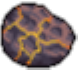
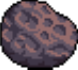
Gameplay refactor
Major gameplay refactor:

- Changed obstacle behavior: now spawn from top and fall down instead of moving from right
- Adjusted difficulty: reduced spawn time (1000→750ms), increased timeout (20→60s), reduced obstacle damage
- Implemented Score screen for victory and loss conditions
- Added proper win/lose detection in Level
- Updated UI: larger fonts (Roboto), new text sizing, added game state messaging
- Removed debug print statements and Python 2 encoding declarations
- Added separate victory/loss music tracks

diff --git a/code/Score.py b/code/Score.py
@@ -1,0 +1,65 @@
+import sys
+import pygame
+from pygame.font import Font
+from pygame.rect import Rect
+from pygame.surface import Surface
+
+from Const import C_YELLOW, C_WHITE, C_RED, SCORE_POS
+
+
+class Score:
+
+    def __init__(self, window: Surface):
+        self.window = window
+        self.surf = pygame.image.load("assets/ScoreBg.png").convert_alpha()
+        self.rect = self.surf.get_rect(left=0, top=0)
+
+    def show(self, victory: bool):
+
+        if victory:
+            title = "YOU WIN!"
+            color = C_YELLOW
+            music = "Score_Victory.mp3"
+        else:
+            title = "GAME OVER"
+            color = C_RED
+            music = "Score_Loss.mp3"
+
+        pygame.mixer_music.load(f"assets/{music}")
+        pygame.mixer_music.play(-1)
+
+        while True:
+            self.window.blit(self.surf, self.rect)
+
+            self.score_text(
+                48,
+                title,
+                color,
+                SCORE_POS["Title"]
+            )
+
+            self.score_text(
+                20,
+                "Press ENTER to return",
+                C_WHITE,
+                SCORE_POS["Label2"]
+            )
+
+            for event in pygame.event.get():
+
+                if event.type == pygame.QUIT:
+                    pygame.quit()
+                    sys.exit()
+
+                if event.type == pygame.KEYDOWN:
+                    if event.key == pygame.K_RETURN:
+                        return
+
+            pygame.display.flip()
+
+    def score_text(self, text_size: int, text: str, text_color: tuple, text_center_pos: tuple):
+        text_font: Font = pygame.font.SysFont(name="Roboto", size=text_size)
+        text_surf: Surface = text_font.render(text, True, text_color).convert_alpha()
+        text_rect: Rect = text_surf.get_rect(center=text_center_pos)
+
+        self.window.blit(text_surf, text_rect)

diff --git a/code/Level.py b/code/Level.py
@@ -1,5 +1,3 @@
-#!/usr/bin/python
-# -*- coding: utf-8 -*-
 import sys
 import random
 
@@ -9,15 +7,14 @@ from pygame.rect import Rect
 from pygame.surface import Surface
 from pygame.font import Font
 
-from Const import EVENT_OBSTACLE
+from Const import WIN_WIDTH, C_RED
 from code.EntityMediator import EntityMediator
-# from code.EntityMediator import EntityMediator
-from code.Obstacle import Obstacle
 from code.Entity import Entity
 from code.EntityFactory import EntityFactory
 from code.Player import Player
-from Const import C_WHITE, WIN_HEIGHT, MENU_OPTION, EVENT_OBSTACLE, SPAWN_TIME, C_GREEN, C_CIAN, EVENT_TIMEOUT, \
+from Const import C_WHITE,  EVENT_OBSTACLE, SPAWN_TIME, C_GREEN, EVENT_TIMEOUT, \
     TIMEOUT_STEP, TIMEOUT_LEVEL
+from code.Score import Score
 
 
 class Level:
@@ -46,7 +43,7 @@ class Level:
                 ent.move()
 
                 if ent.name == 'Player1':
-                    self.level_text(14, f'Player1 - Health: {ent.health} | Score: teste', C_GREEN, (10, 25))
+                    self.level_text(25, f'Player Health: {ent.health}', C_GREEN, (10, 25))
 
             for event in pygame.event.get():
                 if event.type == pygame.QUIT:
@@ -57,17 +54,40 @@ class Level:
                     self.entity_list.append(EntityFactory.get_entity(choice))
                 if event.type == EVENT_TIMEOUT:
                     self.timeout -= TIMEOUT_STEP
+                if self.timeout == 0:
+                    return True
 
+            self.level_text(20, f'Timeout: {self.timeout / 1000:.1f}s', C_WHITE, (10, 5))
+            # self.level_text(14, f'fps: {clock.get_fps():.0f}', C_WHITE, (10, WIN_HEIGHT - 35))
+            # self.level_text(14, f'entidades: {len(self.entity_list)}', C_WHITE, (10, WIN_HEIGHT - 20))
+            self.level_text_info(50, 'SURVIVE!', C_RED, ((WIN_WIDTH / 2), 50))
 
-            self.level_text(14, f'{self.name} - Timeout: {self.timeout / 1000:.1f}s', C_WHITE, (10, 5))
-            self.level_text(14, f'fps: {clock.get_fps():.0f}', C_WHITE, (10, WIN_HEIGHT - 35))
-            self.level_text(14, f'entidades: {len(self.entity_list)}', C_WHITE, (10, WIN_HEIGHT - 20))
             pygame.display.flip()
             EntityMediator.verify_collision(entity_list=self.entity_list)
             EntityMediator.verify_health(entity_list=self.entity_list)
 
+            player = next(
+                (ent for ent in self.entity_list if isinstance(ent, Player)),
+                None
+            )
+
+            # Derrota
+            if player is None or player.health <= 0:
+                return False
+
+            # Vitória
+            if self.timeout <= 0:
+                Score(self.window).show()
+                return True
+
     def level_text(self, text_size: int, text: str, text_color: tuple, text_pos: tuple):
-        text_font: Font = pygame.font.SysFont(name="Lucida Sans Typewriter", size=text_size)
+        text_font: Font = pygame.font.SysFont(name="Roboto", size=text_size)
         text_surf: Surface = text_font.render(text, True, text_color).convert_alpha()
         text_rect: Rect = text_surf.get_rect(left=text_pos[0], top=text_pos[1])
+        self.window.blit(source=text_surf, dest=text_rect)
+
+    def level_text_info(self, text_size: int, text: str, text_color: tuple, text_center_pos=tuple):
+        text_font: Font = pygame.font.SysFont(name="Roboto", size=text_size)
+        text_surf: Surface = text_font.render(text, True, text_color).convert_alpha()
+        text_rect: Rect = text_surf.get_rect(center=text_center_pos)
         self.window.blit(source=text_surf, dest=text_rect)

diff --git a/Const.py b/Const.py
@@ -6,6 +6,7 @@ C_WHITE = (255, 255, 255)
 C_YELLOW = (242, 197, 92)
 C_GREEN = (0, 128, 0)
 C_CIAN = (0, 128, 128)
+C_RED = (255, 0, 0)
 
 #  E
 
@@ -19,8 +20,8 @@ ENTITY_DAMAGE = {
     'Level1Bg5': 0,
     'Level1Bg6': 0,
     'Player1': 100,
-    'Obstacle1': 20,
-    'Obstacle2': 15,
+    'Obstacle1': 5,
+    'Obstacle2': 10,
 }
 
 EVENT_OBSTACLE = pygame.USEREVENT + 1
@@ -47,8 +48,8 @@ ENTITY_SPEED = {
     'Level1Bg4': 5,
     'Level1Bg5': 6,
     'Player1': 3,
-    'Obstacle1': 5,
-    'Obstacle2': 6,
+    'Obstacle1': 6,
+    'Obstacle2': 7,
 
 }
 
@@ -59,35 +60,34 @@ MENU_OPTION = ('NEW SURVIVAL GAME',
                )
 
 # P
-PLAYER_KEY_UP = {'Player1': pygame.K_UP,
-                 'Player2': pygame.K_w}
-PLAYER_KEY_DOWN = {'Player1': pygame.K_DOWN,
-                   'Player2': pygame.K_s}
-PLAYER_KEY_LEFT = {'Player1': pygame.K_LEFT,
-                   'Player2': pygame.K_a}
-PLAYER_KEY_RIGHT = {'Player1': pygame.K_RIGHT,
-                    'Player2': pygame.K_d}
-PLAYER_KEY_SHOOT = {'Player1': pygame.K_RCTRL,
-                    'Player2': pygame.K_LCTRL}
+PLAYER_KEY_UP = {'Player1': pygame.K_UP}
+
+PLAYER_KEY_DOWN = {'Player1': pygame.K_DOWN}
+
+PLAYER_KEY_LEFT = {'Player1': pygame.K_LEFT}
+
+PLAYER_KEY_RIGHT = {'Player1': pygame.K_RIGHT}
+
+PLAYER_KEY_SHOOT = {'Player1': pygame.K_RCTRL}
+
 
 # S
 
-SPAWN_TIME = 1000
-
+SPAWN_TIME = 750
 
 # T
 
 TIMEOUT_STEP = 100  # 100ms
-TIMEOUT_LEVEL = 20000  # 20 S
+TIMEOUT_LEVEL = 60000  # 60s S
 
 #   W
 WIN_WIDTH = 640
 WIN_HEIGHT = 360
 
 SCORE_POS = {'Title': (WIN_WIDTH / 2, 50),
-             'EnterName': (WIN_WIDTH / 2, 80),
+             'Subtitle': (WIN_WIDTH / 2, 80),
              'Label': (WIN_WIDTH / 2, 90),
-             'Name': (WIN_WIDTH / 2, 110),
+             'Label2': (WIN_WIDTH / 2, 110),
              0: (WIN_WIDTH / 2, 110),
              1: (WIN_WIDTH / 2, 130),
              2: (WIN_WIDTH / 2, 150),

diff --git a/code/Game.py b/code/Game.py
@@ -1,9 +1,10 @@
-import sys
 from code.Level import Level
 from Const import WIN_WIDTH, WIN_HEIGHT, MENU_OPTION
 import pygame
 import pygame.mixer_music
 from code.Menu import Menu
+from code.Score import Score
+
 
 class Game:
     def __init__(self):
@@ -15,14 +16,13 @@ class Game:
             menu = Menu(self.window)
             menu_return = menu.run()
 
-            if menu_return in [MENU_OPTION[0]]:
+            if menu_return == MENU_OPTION[0]:
+
                 level = Level(self.window, "Level1", menu_return)
-                level_return = level.run()
-            if level_return:
-                 menu.run()
+                result = level.run()
+
+                Score(self.window).show(result)
+
             elif menu_return == MENU_OPTION[1]:
                 pygame.quit()
                 quit()
-            else:
-                pygame.quit()
-                sys.exit()

diff --git a/code/Obstacle.py b/code/Obstacle.py
@@ -1,6 +1,3 @@
-#!/usr/bin/python
-# -*- coding: utf-8 -*-
-
 import random
 
 from code.Entity import Entity
@@ -12,15 +9,12 @@ class Obstacle(Entity):
     def __init__(self, name: str, position: tuple):
         super().__init__(name, position)
 
-        # Velocidade horizontal (para a esquerda)
-        self.speed_x = ENTITY_SPEED[self.name]
+        # Cai para baixo
+        self.speed_y = ENTITY_SPEED[self.name]
 
-        # Velocidade vertical aleatória (sempre para baixo)
-        self.speed_y = random.randint(1, self.speed_x // 4)
+        # Anda para a esquerda
+        self.speed_x = random.randint(1, ENTITY_SPEED[self.name] * 4)
 
     def move(self):
         self.rect.centerx -= self.speed_x
         self.rect.centery += self.speed_y
-        print(self.rect.size)
-
-        from Const import WIN_HEIGHT

diff --git a/code/Menu.py b/code/Menu.py
@@ -1,5 +1,3 @@
-#!/usr/bin/python
-# -*- coding: utf-8 -*-
 import pygame.image
 from pygame.font import Font
 from pygame.rect import Rect
@@ -20,16 +18,16 @@ class Menu:
         pygame.mixer_music.play(-1)
         while True:
             self.window.blit(source=self.surf, dest=self.rect)
-            self.menu_text(text_size=50, text="MoonFall", text_color=C_ORANGE,
+            self.menu_text(text_size=75, text="MoonFall", text_color=C_ORANGE,
                            text_center_pos=((WIN_WIDTH / 2), 70))
-            self.menu_text(text_size=50, text="SpaceShooter", text_color=C_ORANGE,
+            self.menu_text(text_size=75, text="SpaceSurvival", text_color=C_ORANGE,
                            text_center_pos=((WIN_WIDTH / 2), 120))
             for i in range(len(MENU_OPTION)):
                 if i == menu_option:
-                    self.menu_text(text_size=20, text=MENU_OPTION[i], text_color=C_YELLOW,
+                    self.menu_text(text_size=35, text=MENU_OPTION[i], text_color=C_YELLOW,
                                    text_center_pos=((WIN_WIDTH / 2), 200 + 25 * i))
                 else:
-                    self.menu_text(text_size=20, text=MENU_OPTION[i], text_color=C_WHITE,
+                    self.menu_text(text_size=35, text=MENU_OPTION[i], text_color=C_WHITE,
                                    text_center_pos=((WIN_WIDTH / 2), 200 + 25 * i))
             pygame.display.flip()
 
@@ -52,7 +50,7 @@ class Menu:
                         return MENU_OPTION[menu_option]
 
     def menu_text(self, text_size: int, text: str, text_color: tuple, text_center_pos: tuple):
-        text_font: Font = pygame.font.SysFont(name="Lucida Sans Typewriter", size=text_size)
+        text_font: Font = pygame.font.SysFont(name="Roboto", size=text_size)
         text_surf: Surface = text_font.render(text, True, text_color).convert_alpha()
         text_rect: Rect = text_surf.get_rect(center=text_center_pos)
         self.window.blit(source=text_surf, dest=text_rect)

diff --git a/code/EntityFactory.py b/code/EntityFactory.py
@@ -1,5 +1,3 @@
-#!/usr/bin/python
-# -*- coding: utf-8 -*-
 import random
 
 from code.Background import Background
@@ -23,6 +21,6 @@ class EntityFactory:
             case 'Player1':
                 return Player('Player1', (25, WIN_HEIGHT / 2))
             case 'Obstacle1':
-                return Obstacle('Obstacle1', (WIN_WIDTH + 10, random.randint(40, WIN_HEIGHT - 40)))
+                return Obstacle('Obstacle1', (random.randint(WIN_WIDTH // 2, WIN_WIDTH + 50), random.randint(-80, 0)))
             case 'Obstacle2':
-                return Obstacle('Obstacle2', (WIN_WIDTH + 10, random.randint(40, WIN_HEIGHT - 40)))
+                return Obstacle('Obstacle2', (random.randint(WIN_WIDTH // 2, WIN_WIDTH + 50), random.randint(-80, 0)))

diff --git a/code/EntityMediator.py b/code/EntityMediator.py
@@ -12,13 +12,12 @@ class EntityMediator:
             # Remove o obstáculo quando sair da tela
             if ent.rect.right <= 0 or ent.rect.top >= WIN_HEIGHT:
                 ent.health = 0
-                print('vida', ent.health)
 
     @staticmethod
     def __verify_collision_entity(ent1: Entity, ent2: Entity):
         valid_interaction = (
-            (isinstance(ent1, Obstacle) and isinstance(ent2, Player)) or
-            (isinstance(ent1, Player) and isinstance(ent2, Obstacle))
+                (isinstance(ent1, Obstacle) and isinstance(ent2, Player)) or
+                (isinstance(ent1, Player) and isinstance(ent2, Obstacle))
         )
 
         if not valid_interaction:

diff --git a/code/Player.py b/code/Player.py
@@ -1,5 +1,4 @@
-#!/usr/bin/python
-# -*- coding: utf-8 -*-
+
 import pygame.key
 
 from code.Entity import Entity
@@ -73,7 +72,7 @@ class Player(Entity):
             self.exhaust_frames = self.exhaust_right
         self.animate()
         self.animate_exhaust()
-        print(f'Player {self.rect.size}')
+
 
     def animate(self):
         self.animation_counter += 1

diff --git a/code/Entity.py b/code/Entity.py
@@ -1,5 +1,4 @@
-#!/usr/bin/python
-# -*- coding: utf-8 -*-
+
 from abc import ABC, abstractmethod
 
 import pygame.image